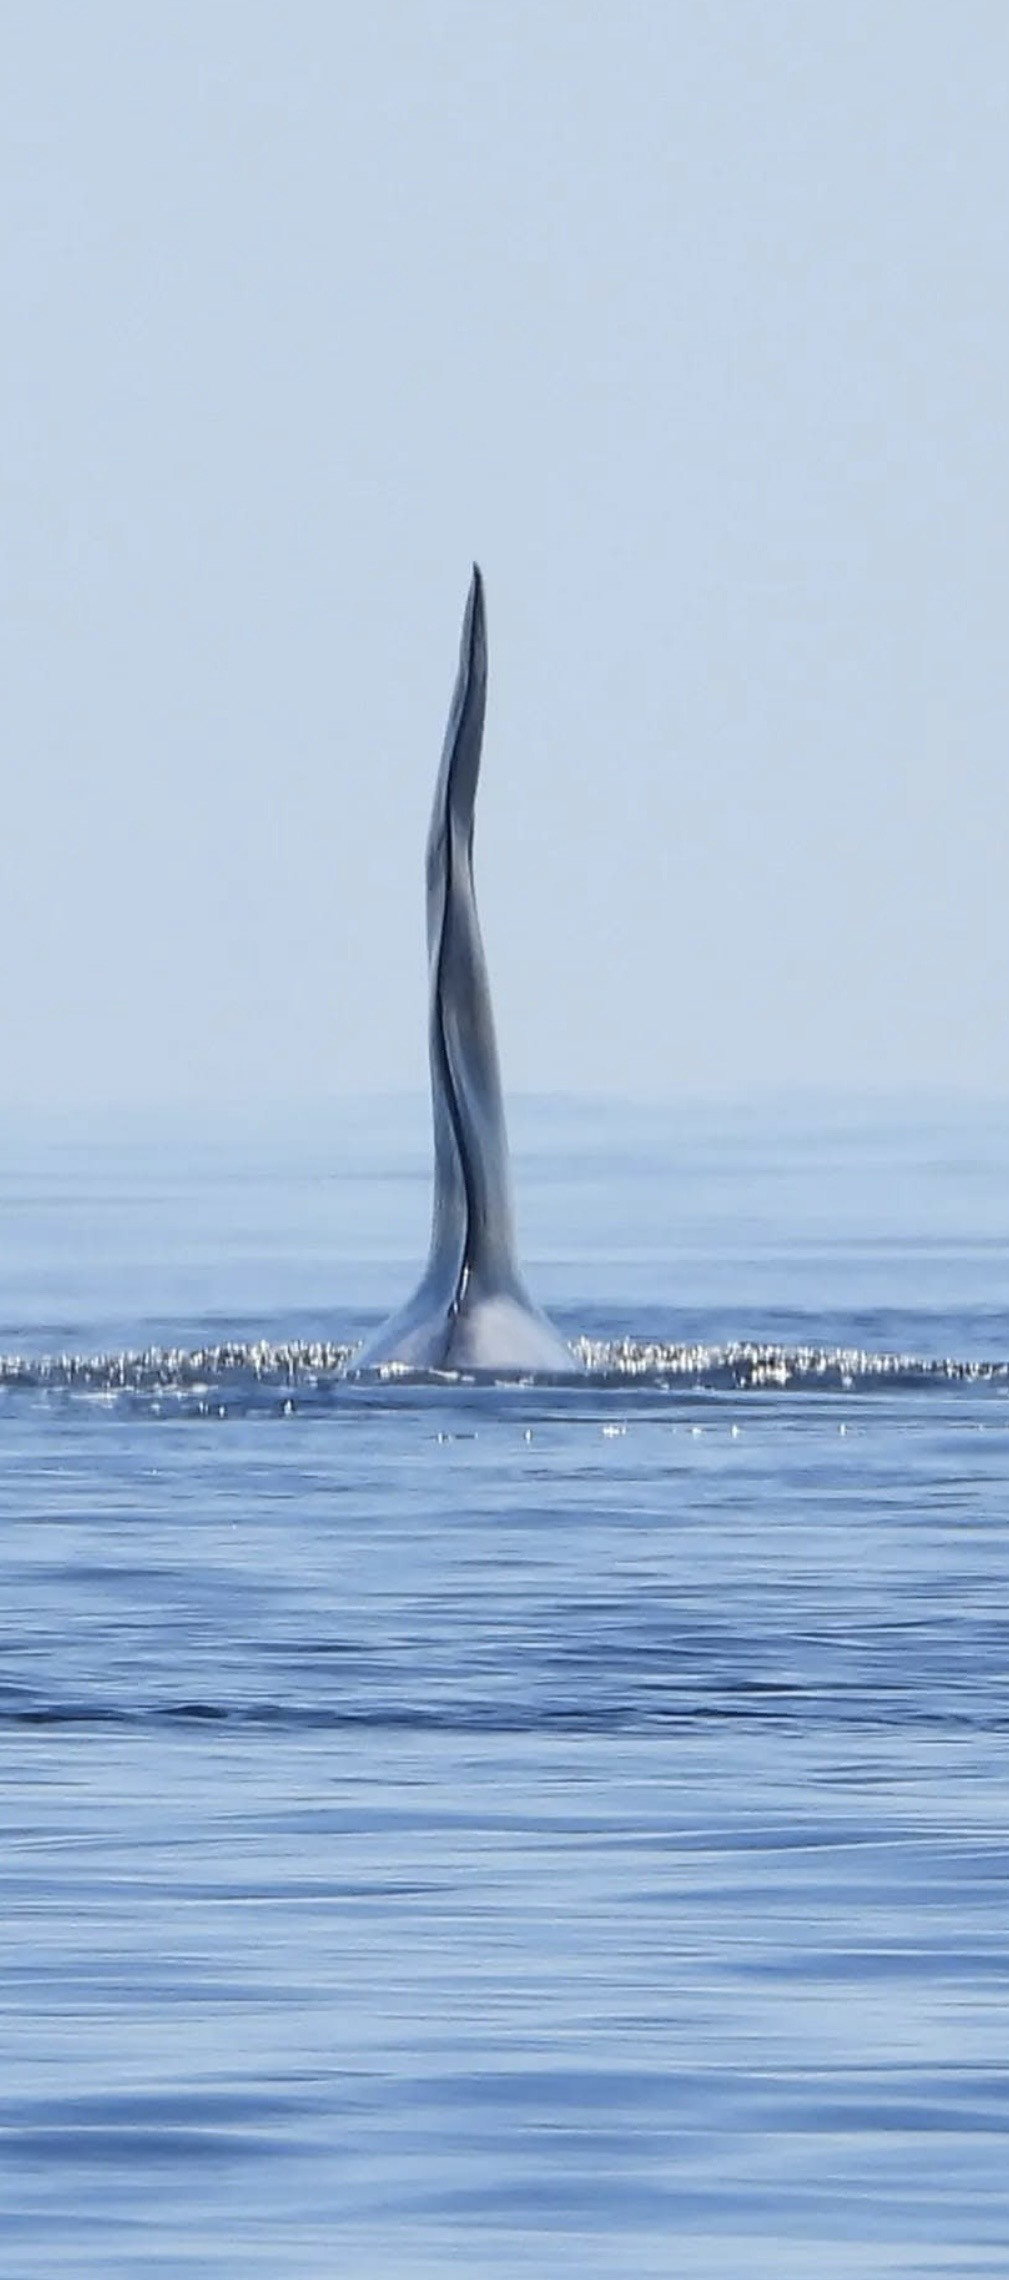
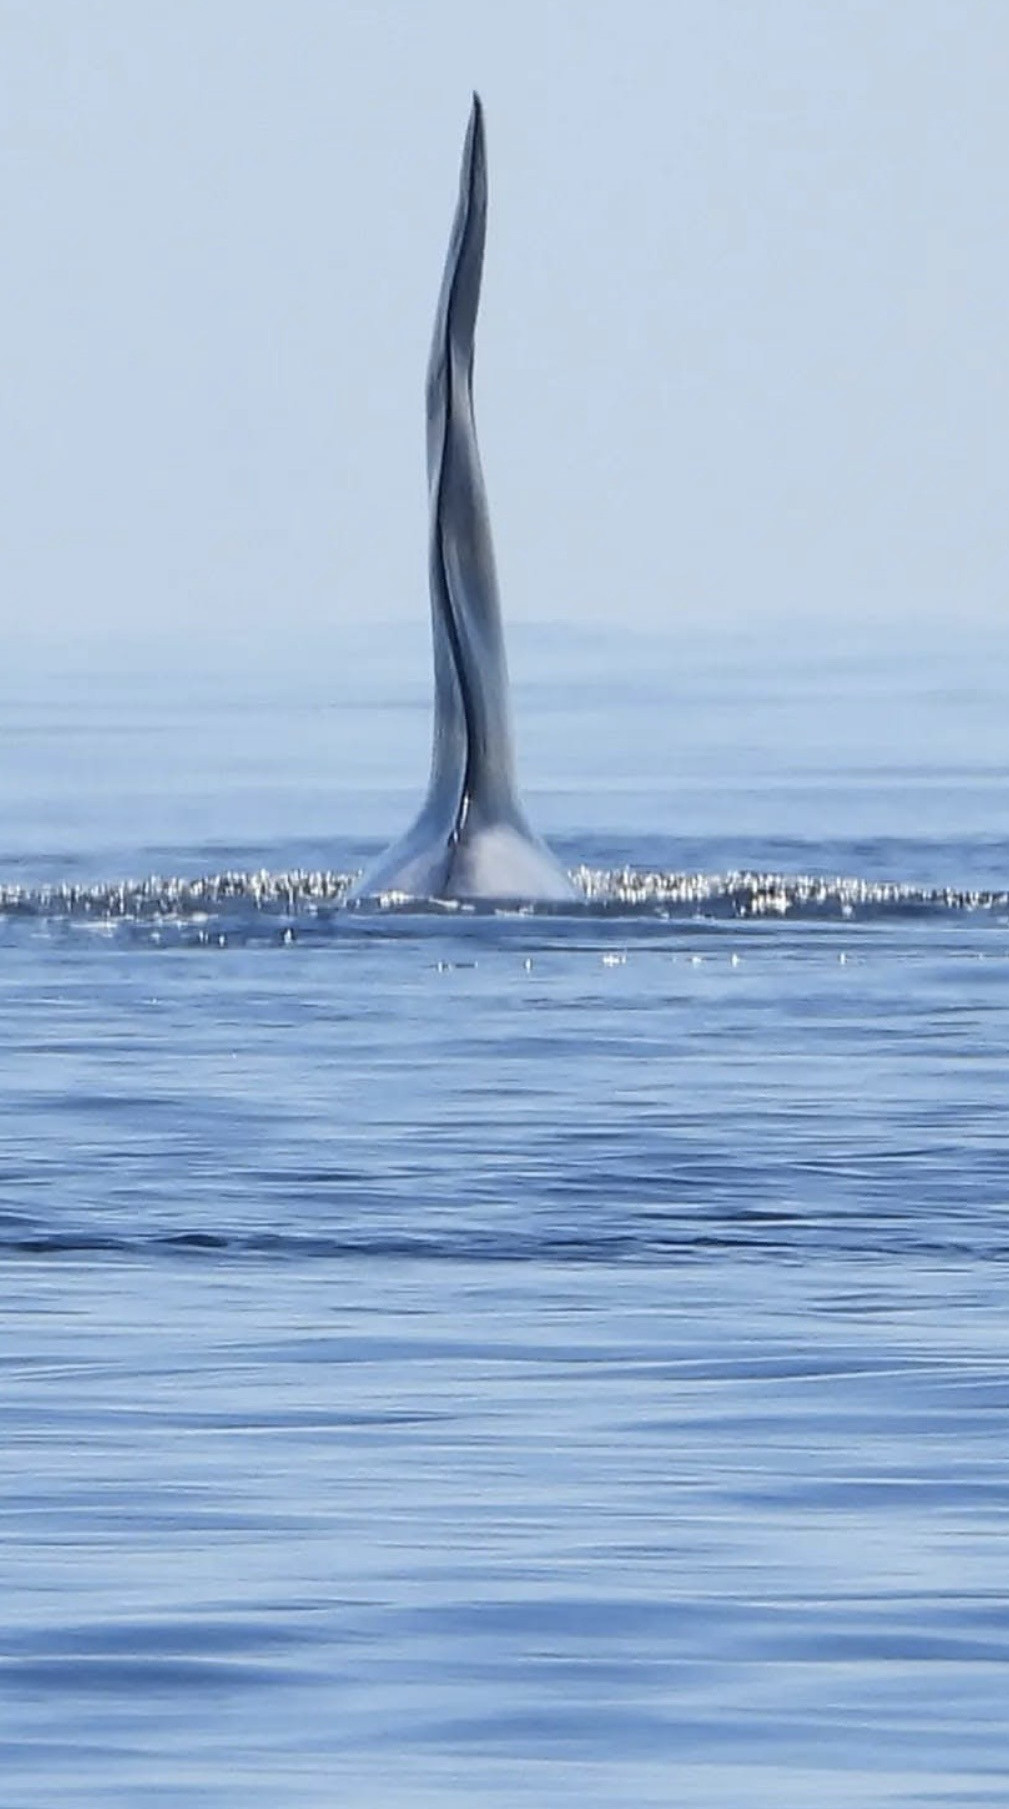
Update whale image and mark feedback as addressed
Cropped Kwigwis-Gallery-Whale3.jpg for better fit in the whale watching section. Marked a feedback item as completed in README.md and added a note about the image update in notes.txt.

diff --git a/README.md b/README.md
@@ -62,6 +62,6 @@ Freelance web development project for the Smiths. A fishing charter website.
 ### Feedback 3
 - ~~Taking the duplicate picture out in both spots was perfect.~~
 - ~~You can take the one picture with the youth and 2 adults out, the young gal is our daughter so that’s ok.~~
-- For the desktop version, could we do 3 pictures say the logo one, I don’t have one with the blue around it, a picture of the boat and nice fish picture? Say the logo in the middle and the other 2 on the other sides or even 4 and include a whale one? I got more whale ones.
+- ~~For the desktop version, could we do 3 pictures say the logo one, I don’t have one with the blue around it, a picture of the boat and nice fish picture? Say the logo in the middle and the other 2 on the other sides or even 4 and include a whale one? I got more whale ones.~~
 - ~~Boat pictures are great there~~
 - ~~We can get rid of the 6 passenger wording as Doug double checked and the max is 6 with him.~~
